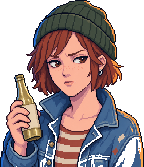
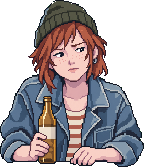
round 4 art: Lena r5 leaning at the counter (neutral/warm/upset from one pose), counter r7 (takeaway cup, newspaper, Pfand crate, prop weights, edge in the top rows); lift 0 for r7, bust clamp 14, stronger light pool

diff --git a/docs/03-build-log.md b/docs/03-build-log.md
@@ -1144,3 +1144,4 @@ conversation is open — and the log rows now carry `queue` and `talking`.
 - **01:20 — the stall is the strict output schema on astra.** Same lean payload: with `--output-schema` four astra runs stalled (420/420/420/300 s); without it (`--no-schema`, shape given in the prompt) astra answered in 42 s. A single-image no-schema probe: 8 s; sol with the schema: 30 s. `judge.mjs` gained `--no-schema` plus a key normaliser. **Two verdicts on v4 (bust 144×174):** sol 76 (composition 82 · palette 68 · pixel 79 · character 78 · ui 61 · Berlin 91); astra 70 (composition 66 — "Lena looks submerged behind the counter": the smaller bust sinks its shoulders and bottle hand behind the cut; palette 63; ui 62). Both: warm interior light missing (flat cold tint), HUD reads as RPG status bars, panel heavy. Astra also: the porcelain cup + saucer on the counter is café-coded — replace with a takeaway cup (counter regen).
 - **01:45 — round 3 (code-side):** the flat time-of-night tint became a SHAPED light (`light_pool.gdshader`: a warm fluorescent pool over the counter and the customer falling off in 4 stepped bands into the cool night at the fridge and the door; six Palette tokens by night phase). Found the real "submerged" cause: the r6 counter strip's top 37 rows are wall, so flush-with-the-bottom put the laminate edge at y 177 and left a 4-px countertop sliver above the choice panel → `Palette.COUNTER_LIFT = 20` raises the layer; the band is now ~24 px, the props ride up, and the bust seats at its natural top (shoulders, forearm, bottle hand above the cut). HUD `set_focus`: during a talk or a story beat only the clock and the night/queue line stay (both judges: "RPG status bars"). Panel alpha 0.88 → 0.82. `judge.mjs`: astra defaults to `--no-schema`. 99/99. v5 judging.
 - **01:22 — v5 verdict (astra, no schema, 55 s): 73.** Trajectory on the composed hero frame: 71 → 74 → 70/74 → 73 — code-side changes have plateaued; every remaining fix is art: Lena's pose (elbows/forearms on the laminate, longer locks, head tilt — per the concept), a deeper countertop surface (45–55 game px, props with contact shadows), stronger light zones (warm cream on laminate + upward skin, darker periphery, cyan rim), material clusters on packs/laminate/register, Berlin cues outside (OPEN neon, door stickers, tagged plaster, bench, Pfand crate), takeaway cup instead of the café cup. Also: the Mate card competes during dialogue → hide/collapse it while a conversation is open. Counter r7 (takeaway cup, crate, newspaper, prop weights, laminate edge within the top 20 rows) and Lena r5 (leaning pose framed for the 30-px overlap) generating.
+- **01:43 — round 4 (art):** Lena r5 (astra, 293 s): leaning pose, both forearms on the counter line, bottle standing on it, longer locks; counter r7 (389 s): takeaway cup, newspaper, Pfand crate, phone, kitchen roll, till, card reader on one laminate plane, edge in the top 10 rows. v7 (both swapped in, lift still 20) judged **72** — the r7 edge sits 27 px higher so the lift now hid the forearms again (composition 72, character 68, palette 62 "predominantly gray", ui 76 ↑). `COUNTER_LIFT` → 0 for r7; light pool alphas raised (night warm 0.17, edge 0.30); PORTRAIT_TOP_MIN 24 → 14. Lena warm/upset regenerating from the r5 raw so the expression swap keeps the pose.
